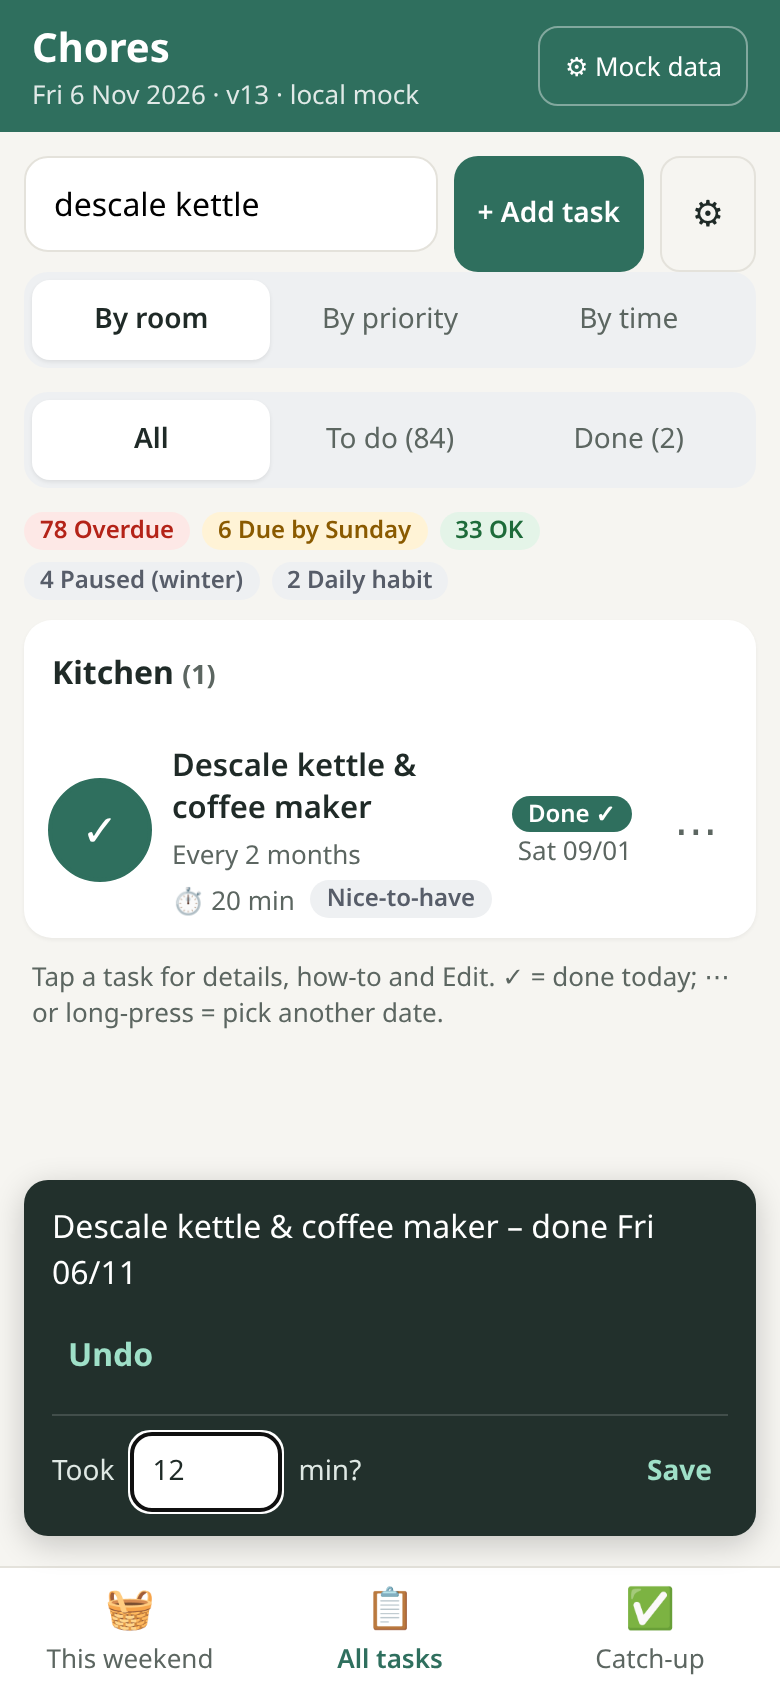
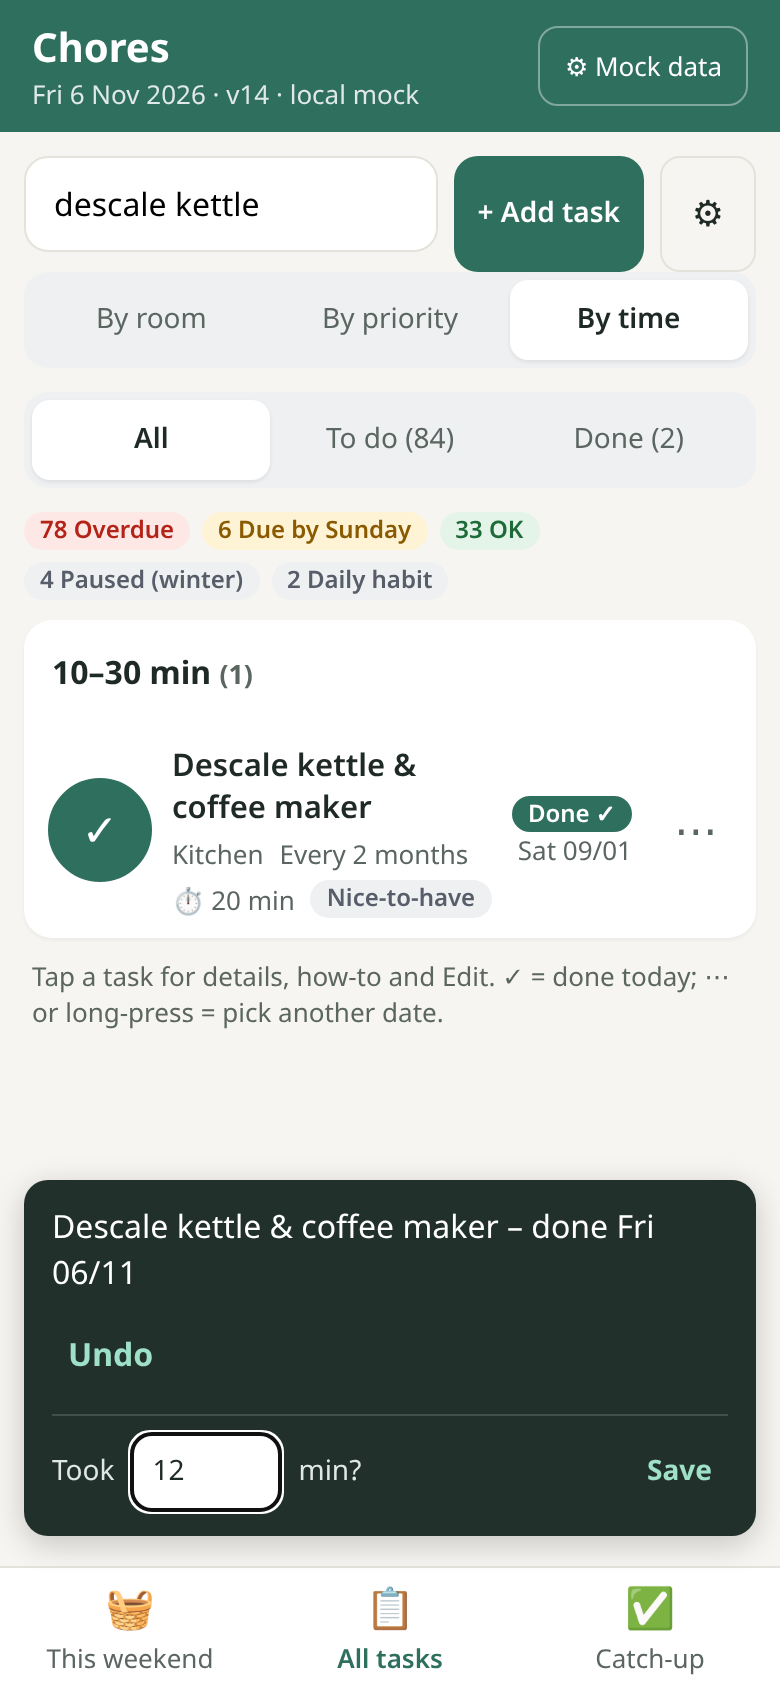
v14: All tasks lists each room/priority/time group most urgent first (Overdue, Due today, Due by Sunday, OK, … snoozed/paused last)

diff --git a/src/app.js b/src/app.js
@@ -1,6 +1,6 @@
 import { computeAll, computeTask, thisWeekend, weekEndFor, fmtDate, addDays, toDay, FREQUENCIES, SEASONS, PRIORITIES, WEEKDAYS,
-  nextWeekendSat, saturdayOnOrAfter, uniqueSupplies, currentAway, effectiveLast, fromDay, planDone, EFFORT_BUCKETS, effortBucket, byNextDue, loggedMinutes, effortFromLogs, validMinutes } from './schedule.js?v=13';
-import { makeBackend } from './data.js?v=13';
+  nextWeekendSat, saturdayOnOrAfter, uniqueSupplies, currentAway, effectiveLast, fromDay, planDone, EFFORT_BUCKETS, effortBucket, byNextDue, byStatus, loggedMinutes, effortFromLogs, validMinutes } from './schedule.js?v=14';
+import { makeBackend } from './data.js?v=14';
 
 const $ = (s, el = document) => el.querySelector(s);
 const esc = (s) => String(s ?? '').replace(/[&<>"']/g, (c) => ({ '&': '&amp;', '<': '&lt;', '>': '&gt;', '"': '&quot;', "'": '&#39;' }[c]));
@@ -222,7 +222,8 @@ function renderAll() {
   if (G === 'priority') for (const k of PRIO) rooms.set(k, []);
   if (G === 'time') for (const k of EFFORT_BUCKETS) rooms.set(k, []);
   const daily = (r) => (r.task.frequency === 'Daily' ? 1 : 0);   // 'every day' has no real due date: after the dated jobs
-  const list = G === 'room' ? rows : rows.slice().sort(G === 'time' ? (a, b) => daily(a) - daily(b) || byNextDue(a, b) : byNextDue);
+  // To do / All: most urgent first within each group (byStatus). Done tab keeps the old order (room: sort_key; others: next due).
+  const list = F !== 'done' ? rows.slice().sort(byStatus) : G === 'room' ? rows : rows.slice().sort(G === 'time' ? (a, b) => daily(a) - daily(b) || byNextDue(a, b) : byNextDue);
   for (const r of list) { if (!passF(r)) continue; if (q && !(`${r.task.room} ${r.task.name} ${r.task.priority}`.toLowerCase().includes(q))) continue; const k = keyOf(r); if (!rooms.has(k)) rooms.set(k, []); rooms.get(k).push(r); }
   for (const [k, v] of rooms) if (!v.length) rooms.delete(k);
   let h = `<div class="toolbar"><input class="search" type="search" placeholder="Search ${rows.length} tasks…" value="${esc(state.q)}" id="q" autocomplete="off">
@@ -282,7 +283,7 @@ async function toggleCatchupNow(id) {
 
 function render() {
   const today = localToday();
-  $('#today').textContent = fmtDate(today, { long: true }) + ' · v13' + (be.kind === 'mock' ? ' · local mock' : '') + (state.conn === 'updating' ? ' · updating…' : '');
+  $('#today').textContent = fmtDate(today, { long: true }) + ' · v14' + (be.kind === 'mock' ? ' · local mock' : '') + (state.conn === 'updating' ? ' · updating…' : '');
   $('#account').textContent = '⚙ ' + (be.kind === 'mock' ? 'Mock data' : (be.user?.email || ''));
   document.querySelectorAll('.tabs button').forEach((b) => b.setAttribute('aria-selected', b.dataset.tab === state.tab));
   $('#tab-catchup').hidden = !state.db.catchup.length || today > addDays(CU_END, 14);

diff --git a/tests/status_order.test.js b/tests/status_order.test.js
@@ -1,0 +1,36 @@
+// v14: All tasks lists each group's tasks most urgent first (byStatus).
+import { test } from 'node:test';
+import assert from 'node:assert/strict';
+import fs from 'node:fs';
+import { computeAll, byStatus, statusRank, effortBucket } from '../src/schedule.js';
+
+const seed = JSON.parse(fs.readFileSync(new URL('../data/seed.json', import.meta.url)));
+const row = (status, next_due, sort_key, extra = {}) => ({ status, next_due, snoozed_until: null, task: { sort_key }, ...extra });
+
+test('status order, then next due, then sort_key', () => {
+  const rows = [
+    row('Due by Sunday', '2026-10-31', 2), row('Overdue', '2026-10-24', 5), row('OK', '2026-11-07', 1),
+    row('Paused (winter)', '2027-04-03', 0), row('Due today', '2026-10-26', 9), row('Overdue', '2026-10-23', 7),
+    row('OK', '2026-11-14', 3, { snoozed_until: '2026-11-14' }), row('Daily habit', '2026-10-27', 4),
+    row('Due by Sunday', '2026-10-31', 1), row('No date', null, 6),
+  ];
+  const got = rows.slice().sort(byStatus).map((r) => `${r.status}|${r.next_due}|${r.task.sort_key}${r.snoozed_until ? '|snz' : ''}`);
+  assert.deepEqual(got, [
+    'Overdue|2026-10-23|7', 'Overdue|2026-10-24|5', 'Due today|2026-10-26|9', 'Due by Sunday|2026-10-31|1', 'Due by Sunday|2026-10-31|2',
+    'OK|2026-11-07|1', 'No date|null|6', 'Daily habit|2026-10-27|4', 'OK|2026-11-14|3|snz', 'Paused (winter)|2027-04-03|0',
+  ]);
+});
+
+test('seed data: every room / priority / time group is in non-decreasing status rank', () => {
+  for (const today of ['2026-10-26', '2026-11-06', '2027-01-15']) {
+    const rows = computeAll(seed.tasks, seed.completions, today).sort((a, b) => a.task.sort_key - b.task.sort_key).sort(byStatus);
+    for (const key of [(r) => r.task.room, (r) => r.task.priority, (r) => effortBucket(r.task.effort_min)]) {
+      const groups = new Map(); for (const r of rows) { const k = key(r); if (!groups.has(k)) groups.set(k, []); groups.get(k).push(r); }
+      for (const [, rs] of groups) for (let i = 1; i < rs.length; i++) {
+        const a = rs[i - 1], b = rs[i];
+        assert.ok(statusRank(a) <= statusRank(b), `${a.task.name} before ${b.task.name}`);
+        if (statusRank(a) === statusRank(b)) assert.ok((a.next_due || '9999') <= (b.next_due || '9999'));
+      }
+    }
+  }
+});

diff --git a/src/schedule.js b/src/schedule.js
@@ -165,6 +165,11 @@ export function effortBucket(min) {
 }
 /** Soonest next due first (overdue first), no date last, then workbook order. */
 export const byNextDue = (a, b) => (a.next_due || '9999').localeCompare(b.next_due || '9999') || (a.task.sort_key ?? 0) - (b.task.sort_key ?? 0);
+// v14: within an All tasks group, most urgent first: Overdue, Due today, Due by Sunday, OK, No date, Daily habit,
+// then snoozed ('Not this weekend') and Paused (winter) last; same rank = earliest next due, then sort_key.
+export const STATUS_RANK = { 'Overdue': 0, 'Due today': 1, 'Due by Sunday': 2, 'OK': 3, 'No date': 4, 'Daily habit': 5, 'Paused (winter)': 6 };
+export const statusRank = (r) => (r.snoozed_until ? 6 : STATUS_RANK[r.status] ?? 4);
+export const byStatus = (a, b) => statusRank(a) - statusRank(b) || byNextDue(a, b);
 
 /** 'Not this weekend': the Saturday after the coming/current weekend. */
 export const nextWeekendSat = (todayIso) => fromDay(toDay(weekEndFor(todayIso)) + 6);

diff --git a/index.html b/index.html
@@ -11,8 +11,8 @@
   <link rel="manifest" href="manifest.webmanifest">
   <link rel="icon" href="icons/icon-192.png">
   <link rel="apple-touch-icon" href="icons/icon-192.png">
-  <link rel="stylesheet" href="styles.css?v=13">
-  <script src="config.js?v=13"></script>
+  <link rel="stylesheet" href="styles.css?v=14">
+  <script src="config.js?v=14"></script>
 </head>
 <body>
   <header class="top">
@@ -44,6 +44,6 @@
   <dialog id="task-sheet" class="sheet tall" aria-label="Task details"></dialog>
   <dialog id="edit-sheet" class="sheet tall" aria-label="Edit task"></dialog>
   <dialog id="settings" class="sheet tall" aria-label="Settings"></dialog>
-  <script type="module" src="src/app.js?v=13"></script>
+  <script type="module" src="src/app.js?v=14"></script>
 </body>
 </html>

diff --git a/sw.js b/sw.js
@@ -1,5 +1,5 @@
 // Offline app shell. Bump VERSION when you deploy changes.
-const VERSION = 'chores-v13';
+const VERSION = 'chores-v14';
 const SHELL = ['./', 'index.html', 'styles.css', 'config.js', 'manifest.webmanifest', 'src/app.js', 'src/data.js', 'src/schedule.js',
   'vendor/supabase.js', 'data/seed.json', 'icons/icon-192.png', 'icons/icon-512.png'];
 self.addEventListener('install', (e) => e.waitUntil(caches.open(VERSION).then((c) => c.addAll(SHELL.map((u) => new Request(u, { cache: 'reload' })))).then(() => self.skipWaiting())));

diff --git a/tests/smoke_features.py b/tests/smoke_features.py
@@ -16,7 +16,7 @@ with sync_playwright() as p:
     pg.on("console", lambda m: m.type == "error" and errors.append(m.text)); pg.on("pageerror", lambda e: errors.append(str(e)))
     pg.on("dialog", lambda d: d.accept())
     pg.goto(BASE + "?today=2026-11-06"); pg.wait_for_selector(".cap")
-    ok("header shows v13", "v13" in pg.inner_text("#today"))
+    ok("header shows v14", "v14" in pg.inner_text("#today"))
     # supplies line
     ok("You'll need line present", pg.locator("#needs").count() == 1)
     ok("You'll need preview when collapsed", "Degreaser" in pg.inner_text("#needs summary"))
@@ -107,6 +107,14 @@ with sync_playwright() as p:
     pg.click("[data-filter=todo]"); pg.wait_for_timeout(200)
     ok("By time works with the To do filter", pg.locator("details.room .item[data-id]").count() > 0 and pg.locator("details.room .chip.s-OK").count() == 0)
     pg.click("[data-filter=all]"); pg.click("[data-group=room]"); pg.wait_for_timeout(200)
+    # v14: inside every group, most urgent first (Overdue, Due today, Due by Sunday, OK, No date, Daily habit, snoozed/Paused)
+    rank_js = """() => { const R = {'Overdue': 0, 'Due today': 1, 'Due by Sunday': 2, 'OK': 3, 'No date': 4, 'Daily habit': 5, 'Paused (winter)': 6};
+      return [...document.querySelectorAll('details.room:not(.retired)')].every((d) => { const rk = [...d.querySelectorAll('.item[data-id]')]
+        .filter((i) => !i.querySelector('.chip.s-Done')).map((i) => i.querySelector('.snz') ? 6 : R[i.querySelector('.due .chip').textContent.trim()] ?? 4);
+        return rk.every((x, j) => !j || rk[j - 1] <= x); }); }"""
+    for g in ["room", "priority", "time"]:
+        pg.click(f"[data-group={g}]"); pg.wait_for_timeout(200)
+        ok(f"v14: {g} groups list tasks by status", pg.evaluate(rank_js))
     # v13: 'took __ min' in the tick toast -> logs minutes, re-estimates, Undo reverts both; sheet history shows + edits it
     mockdb = lambda: pg.evaluate("JSON.parse(localStorage.getItem('chores.mock.v1'))")
     pg.fill("#q", "descale kettle"); pg.wait_for_timeout(200)

diff --git a/tests/smoke_supabase.py b/tests/smoke_supabase.py
@@ -66,7 +66,7 @@ with sync_playwright() as p:
     ok("wrong code: clear message", "wrong or has expired" in pg.inner_text(".login .err"))
     pg.fill("#code", "123456"); pg.click("#code-form button")
     pg.wait_for_selector(".cap", timeout=15000)
-    ok("right code signs in and loads the chores", "v13" in pg.inner_text("#today") and pg.locator(".item[data-id]").count() > 0)
+    ok("right code signs in and loads the chores", "v14" in pg.inner_text("#today") and pg.locator(".item[data-id]").count() > 0)
     pg.locator(".item[data-id] .tick").first.tap(); pg.wait_for_selector("#toast:not([hidden])")
     ok("before migration 003: tick works, no minutes input", "done" in pg.inner_text("#toast") and pg.locator("#took-min").count() == 0 and len(DB["completions"]) == 1)
     key = f"chores.cache.v1.{UID}"

diff --git a/README.md b/README.md
@@ -125,3 +125,9 @@ node scripts/assistant_cli/cli.mjs export chores.xlsx
 - Task sheet → Last done shows "Sat 17 Oct · 20 min"; tap **+ time / edit** to add or change minutes on a past tick.
 - CLI: `done <task> --min N`.
 - Needs `supabase/migrations/003_minutes.sql` (adds nullable `completions.minutes`, 0–600). Until it's applied the input is hidden and ticks work as before.
+
+## v14 – All tasks: most urgent first inside each group
+- **By room**, **By priority** and **By time** now list the tasks inside each group by status: Overdue → Due today → Due by Sunday →
+  OK → No date → Daily habit → snoozed (*Not this weekend*) / Paused (winter). Same status: earliest due date first, then the usual
+  order (`sort_key`). `byStatus` / `statusRank` in `src/schedule.js`; test `tests/status_order.test.js`.
+- Group order is unchanged, and so is the **Done** tab's order.
